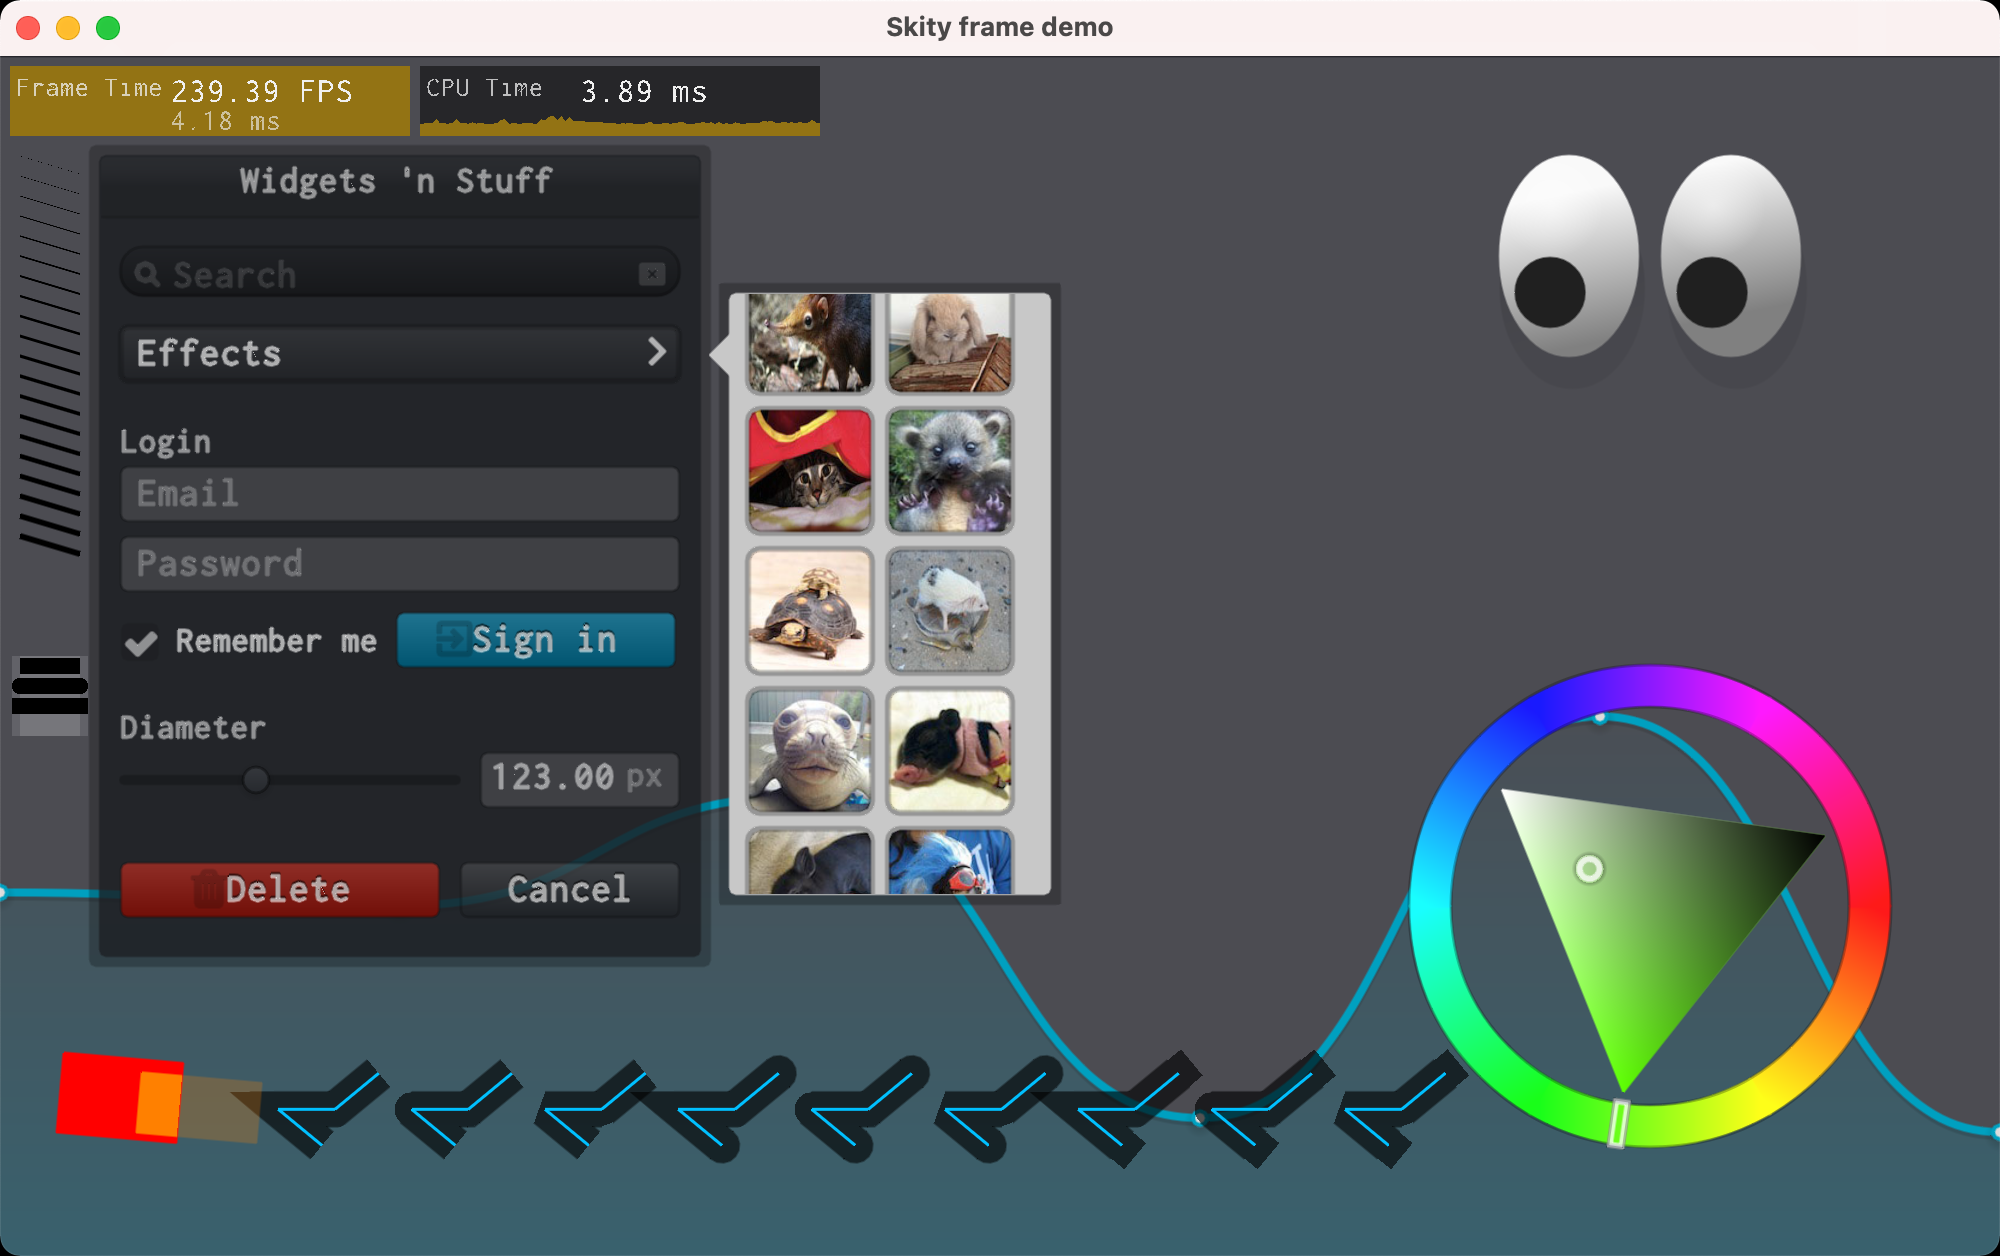
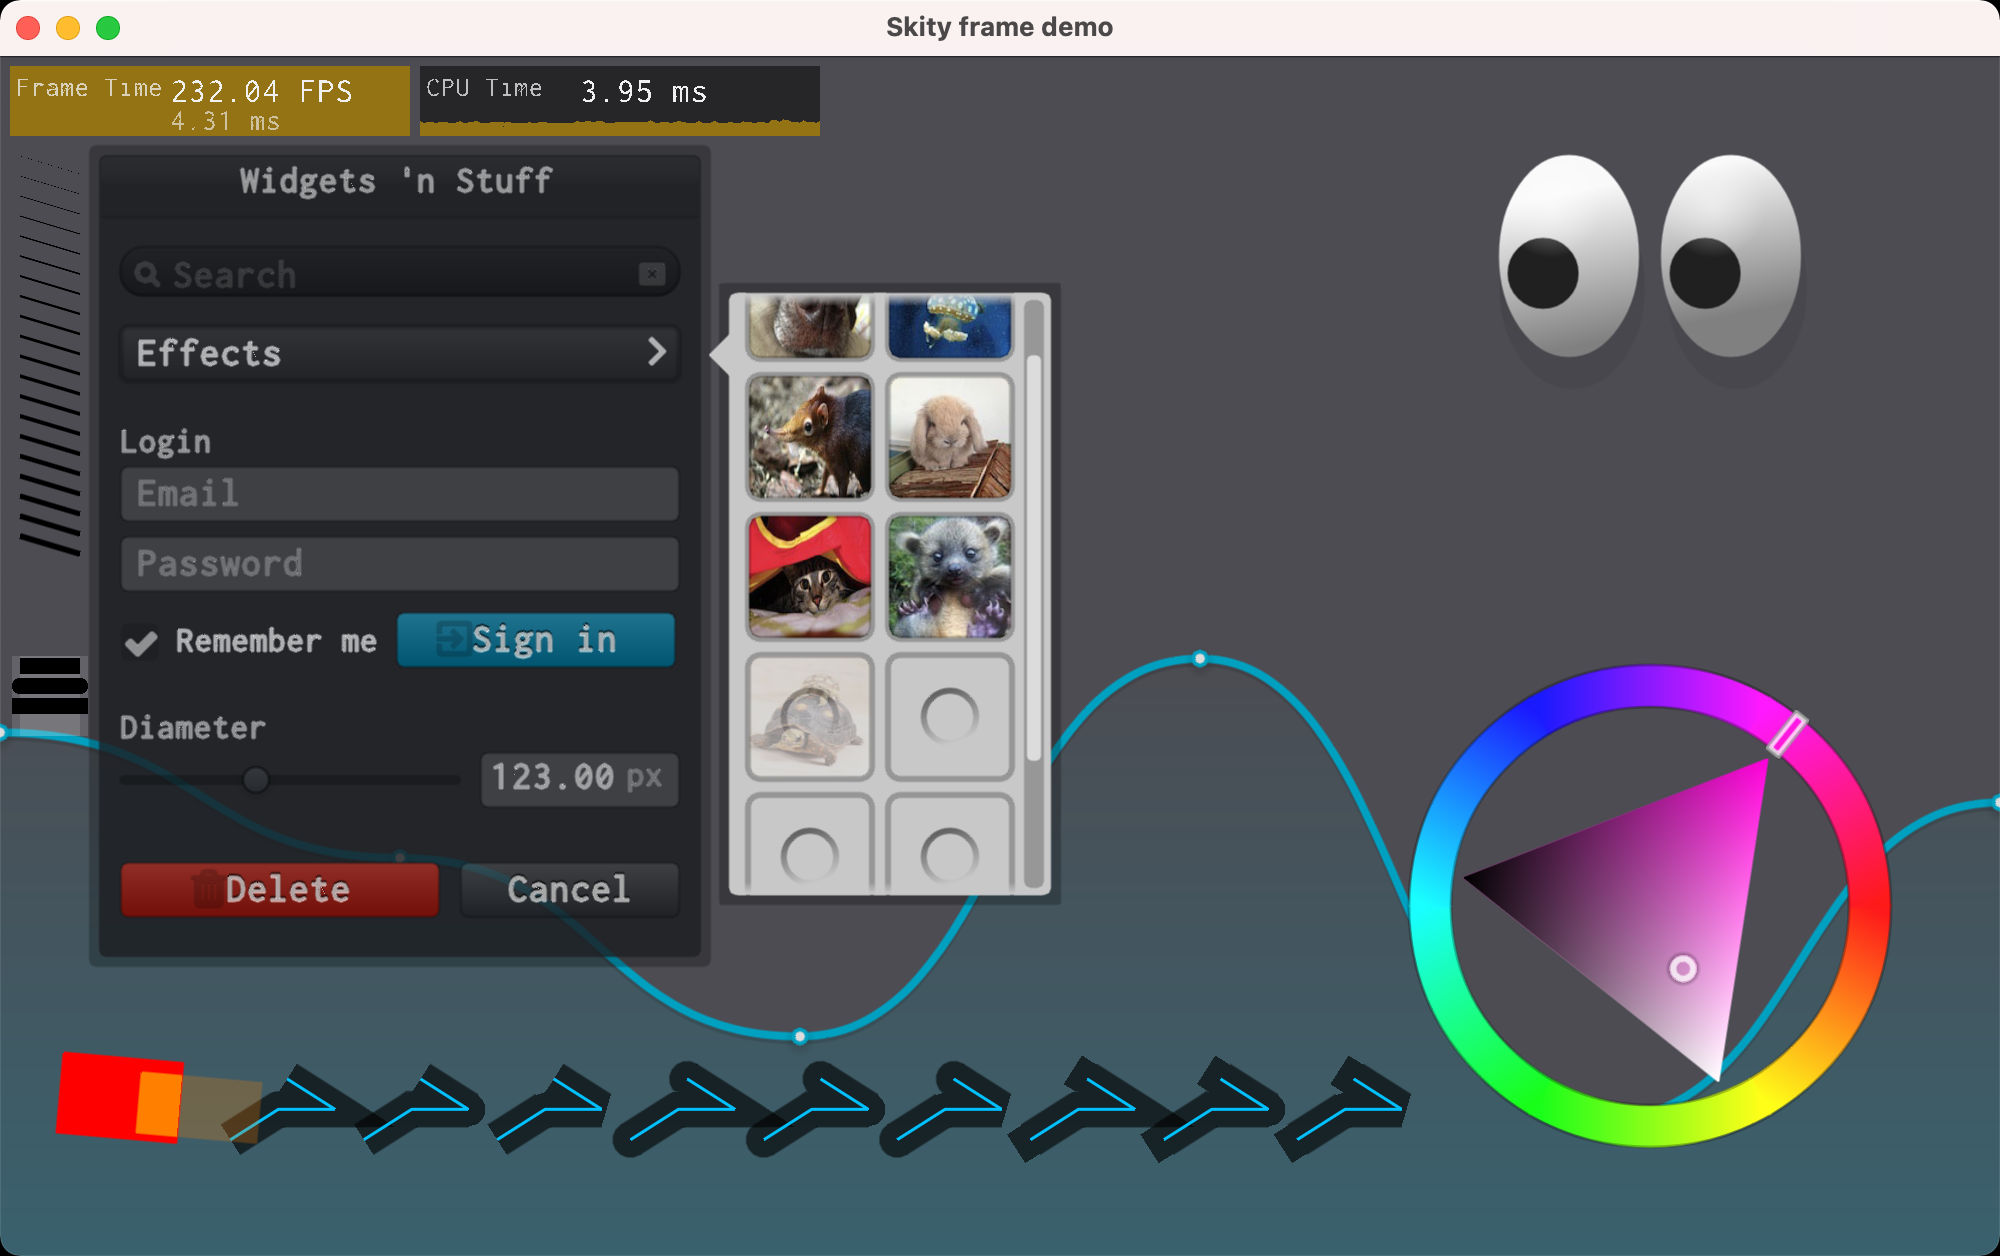
Draw scroll bar on frame_example

diff --git a/example/frame_example.cc b/example/frame_example.cc
@@ -1201,6 +1201,44 @@ void draw_thumbnails(skity::Canvas* canvas,
   }
 
   canvas->restore();
+
+  // Hide fades
+  paint.setAlphaF(1.f);
+  paint.setStyle(skity::Paint::kFill_Style);
+  std::array<skity::Color4f, 2> colors{};
+  std::array<skity::Point, 2> pts{};
+  colors[0] = skity::Color4fFromColor(skity::ColorSetARGB(255, 200, 200, 200));
+  colors[1] = skity::Color4fFromColor(skity::ColorSetARGB(0, 200, 200, 200));
+  pts[0] = {x, y, 0, 1};
+  pts[1] = {x, y + 6, 0, 1};
+
+  paint.setShader(
+      skity::Shader::MakeLinear(pts.data(), colors.data(), nullptr, 2));
+  canvas->drawRect(skity::Rect::MakeXYWH(x + 4, y, w - 8, 6), paint);
+
+  pts[0] = {x, y + h, 0, 1};
+  pts[1] = {x, y + h - 6, 0, 1};
+
+  paint.setShader(
+      skity::Shader::MakeLinear(pts.data(), colors.data(), nullptr, 2));
+
+  canvas->drawRect(skity::Rect::MakeXYWH(x + 4, y + h - 6, w - 8, 6), paint);
+
+  // Scroll bar
+  paint.setShader(nullptr);
+  paint.setStyle(skity::Paint::kFill_Style);
+  paint.setStrokeWidth(1.f);
+  paint.setColor(skity::ColorSetARGB(62, 0, 0, 0));
+  skity::Rect scroll_bar;
+  scroll_bar.setXYWH(x + w - 12 - 0.5f, y + 4 - 0.5f, 8 + 1, h - 8 + 1);
+  canvas->drawRRect(skity::RRect::MakeRectXY(scroll_bar, 3, 3), paint);
+
+  scrollh = (h / stackh) * (h - 8);
+  paint.setColor(skity::ColorSetARGB(255, 220, 220, 220));
+  scroll_bar.setXYWH(x + w - 12 + 1, y + 4 + 1 + (h - 8 - scrollh) * u, 8 - 2,
+                     scrollh - 2);
+
+  canvas->drawRRect(skity::RRect::MakeRectXY(scroll_bar, 2, 2), paint);
 }
 
 void draw_spinner(skity::Canvas* canvas, float cx, float cy, float r, float t) {
